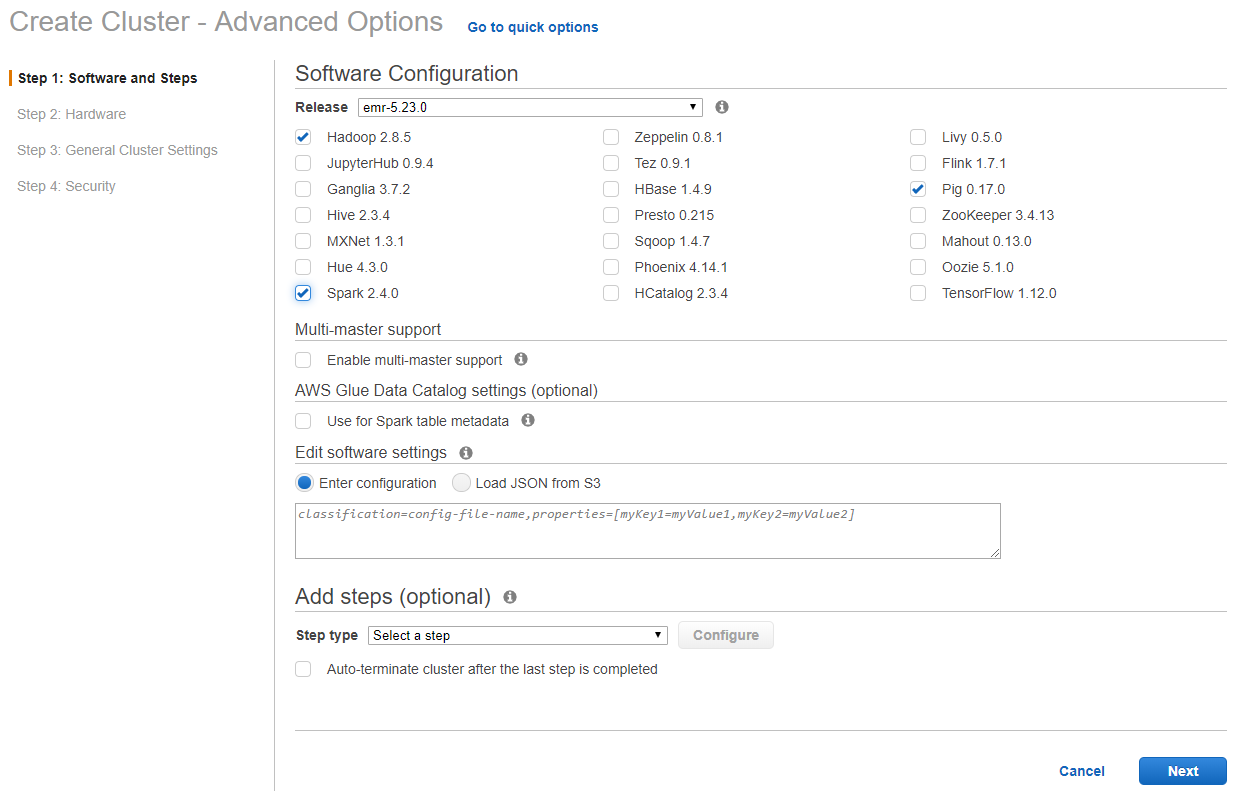
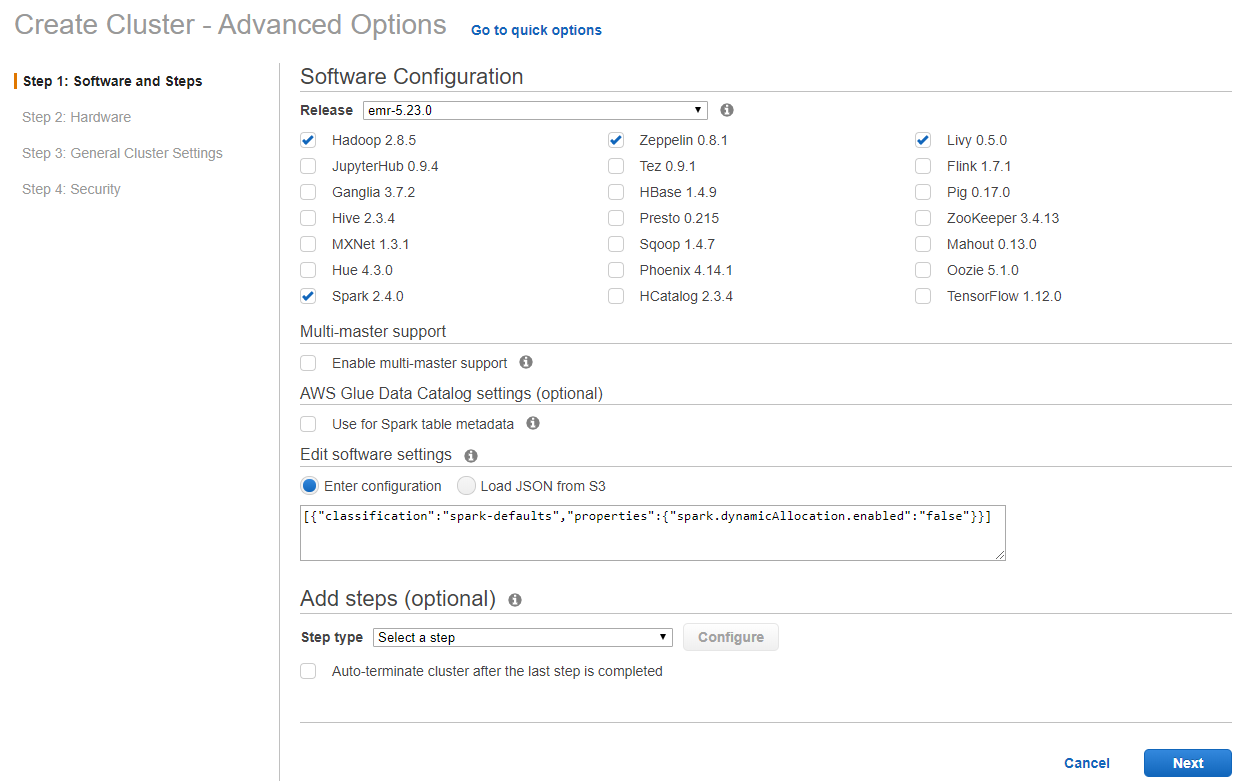
update the AWS EMR guide (#51)
* update the EMR guide

* updated screen capture for step one

correct package selecton and put configuration to disable dynamic allocation.

diff --git a/getting-started-guides/csp/aws/emr.md b/getting-started-guides/csp/aws/emr.md
@@ -12,6 +12,8 @@ Go to AWS Management Console and click EMR service and select a region, e.g. Ore
 
 Select emr-5.23.0 release, uncheck all the software versions, and then check Hadoop 2.8.5 and Spark 2.4.0.
 
+Also add following settings to disable Spark Dynamic Allocation by default.
+
 ![Step 1: Software and Steps](pics/emr-step-one-software-and-steps.png)
 
 ###### Step 2: Hardware
@@ -52,41 +54,65 @@ Click the details of cluster and find the Master public DNS. Use this DNS addres
 
 ![Cluster SSH](pics/emr-cluster-ssh.png)
 
+### Build XGBoost-Spark examples on EMR
+
+Now once the EMR Hadoop/Spark cluster is ready, let’s launch the Nvidia GPU XGboost examples. 
+
+Let’s first install a git and maven package on master node.  And Download [apache-maven-3.6.2-bin.zip](http://apache.mirrors.lucidnetworks.net/maven/maven-3/3.6.2/binaries/apache-maven-3.6.2-bin.zip) into master node, unzip and add to $PATH.
+
+
+```
+sudo yum update -y
+sudo yum install git -y
+wget http://apache.mirrors.lucidnetworks.net/maven/maven-3/3.6.2/binaries/apache-maven-3.6.2-bin.zip
+unzip apache-maven-3.6.2-bin.zip
+export PATH=/home/hadoop/apache-maven-3.6.2/bin:$PATH
+mvn --version
+```
+
+Now let’s build example Jar by following the steps from [Build XGBoost Scala Examples](/getting-started-guides/building-sample-apps/scala.md). The mvn building option might be different based on the CUDA version on EMR instance images.
+
+```
+git clone https://github.com/rapidsai/spark-examples.git
+cd spark-examples/examples/apps/scala
+mvn package #  omit cuda.classifier for cuda 9.2 (AWS EMR Instance use CUDA 9.2)
+```
+
 ### Launch XGBoost-Spark examples on EMR
 
 Last, let's follow this guide [Get Started with XGBoost4J-Spark on Apache Hadoop YARN](/getting-started-guides/on-premises-cluster/yarn-scala.md) to run the example with data on Spark.
 
-First get application jar and dataset:
+First get mortgage dataset:
 
 ```
-mkdir jars
 mkdir data
-cp target/*.jar jars/
 cd data
 wget https://rapidsai-data.s3.us-east-2.amazonaws.com/spark/mortgage.zip
 unzip mortgage.zip
 cd ..
 ```
 
-Then copy local data and jar to HDFS:
+Then copy local data and jar files to HDFS:
 
 ```
 hadoop fs -mkdir /tmp/xgboost4j_spark
-hadoop fs -copyFromLocal * /tmp/xgboost4j_spark
+hadoop fs -mkdir /tmp/data
+hadoop fs -copyFromLocal ./target/*.jar /tmp/xgboost4j_spark
+hadoop fs -copyFromLocal ./data/* /tmp/data
 ```
 
 Now Launch the GPU Mortgage Example:
 
 ```
 # location where data was downloaded
-export DATA_PATH=hdfs:/tmp/xgboost4j_spark/data
+export DATA_PATH=hdfs:/tmp/data
 # location for the required jar
-export JARS_PATH=hdfs:/tmp/xgboost4j_spark/jars
+export JARS_PATH=hdfs:/tmp/xgboost4j_spark
 # spark deploy mode (see Apache Spark documentation for more information)
 export SPARK_DEPLOY_MODE=cluster
 # run a single executor for this example to limit the number of spark tasks and
 # partitions to 1 as currently this number must match the number of input files
-export SPARK_NUM_EXECUTORS=1
+export SPARK_NUM_EXECUTORS=2
 # spark driver memory
 export SPARK_DRIVER_MEMORY=4g
 # spark executor memory
